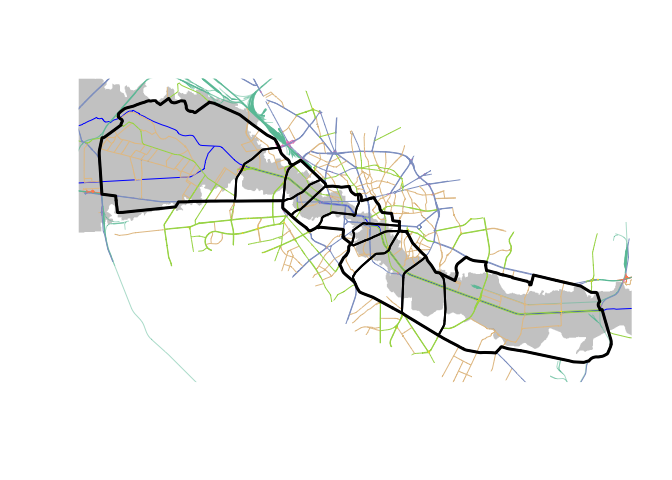
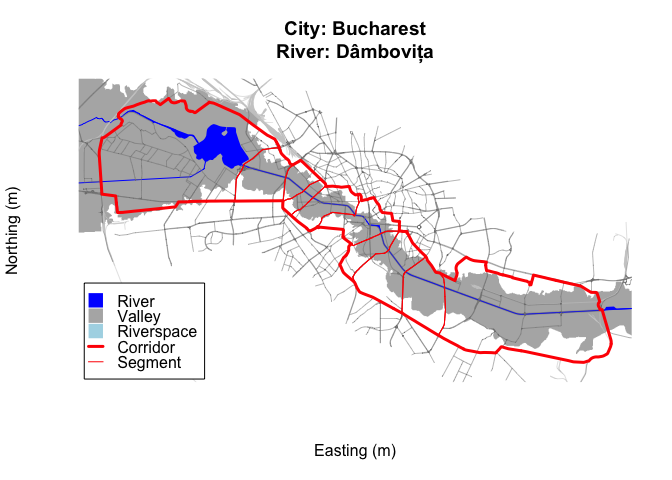
Update workflow in README

diff --git a/README.md b/README.md
@@ -49,11 +49,13 @@ data for the delineation process.
 
 ## Workflow at a glance
 
-1.  (Optionally) get OSM and DEM base layers
-2.  Run the all-in-one `delineate()` or delineation-specific
+1.  Define area of interest and parameters for a given city and a river
+    crossing it
+2.  Get OSM and DEM base layers within the area of interest
+3.  Run the all-in-one `delineate()` or delineation-specific
     `delineate_*()` functions to compute valley, corridor, segments,
     and/or river space
-3.  Visualize/export results for downstream analysis
+4.  Visualize/export results for downstream analysis
 
 See the [Getting started
 vignette](https://cityriverspaces.github.io/rcrisp/articles/getting-started.html)
@@ -88,8 +90,37 @@ library(rcrisp)
 city_name <- "Bucharest"
 river_name <- "Dâmbovița"
 
-# Delineate river corridor
-bd <- delineate(city_name, river_name, segments = TRUE)
+# Set AoI parameters for given location
+aoi <- define_aoi(city_name, river_name)
+
+# Get data
+osm <- get_osm(aoi)
+dem <- get_dem(aoi, osm)
+
+# Delineate river corridor with segments
+bd <- delineate(aoi, osm, dem, segments = TRUE)
+
+# Examine delineation object
+summary(bd)
+#> Delineation: Bucharest - Dâmbovița 
+#> CRS:         WGS 84 / UTM zone 35N 
+#> 
+#> Delineation parameters:
+#>   network_buffer   3000 m
+#>   dem_buffer       2500 m
+#>   buildings_buffer 100 m
+#> 
+#> Delineation layers:
+#>   $valley          101.1 km²
+#>   $corridor        65.8 km²
+#>   $segments        10 features, total 65.8 km² (mean 6.6 km²)
+#>   $riverspace      -
+#> 
+#> Base layers:
+#>   $streets         5112 features
+#>   $railways        677 features
+#>   $river_centerline 270.6 km
+#>   $river_surface   3.4 km²
 
 # Plot delineation object
 plot(bd)